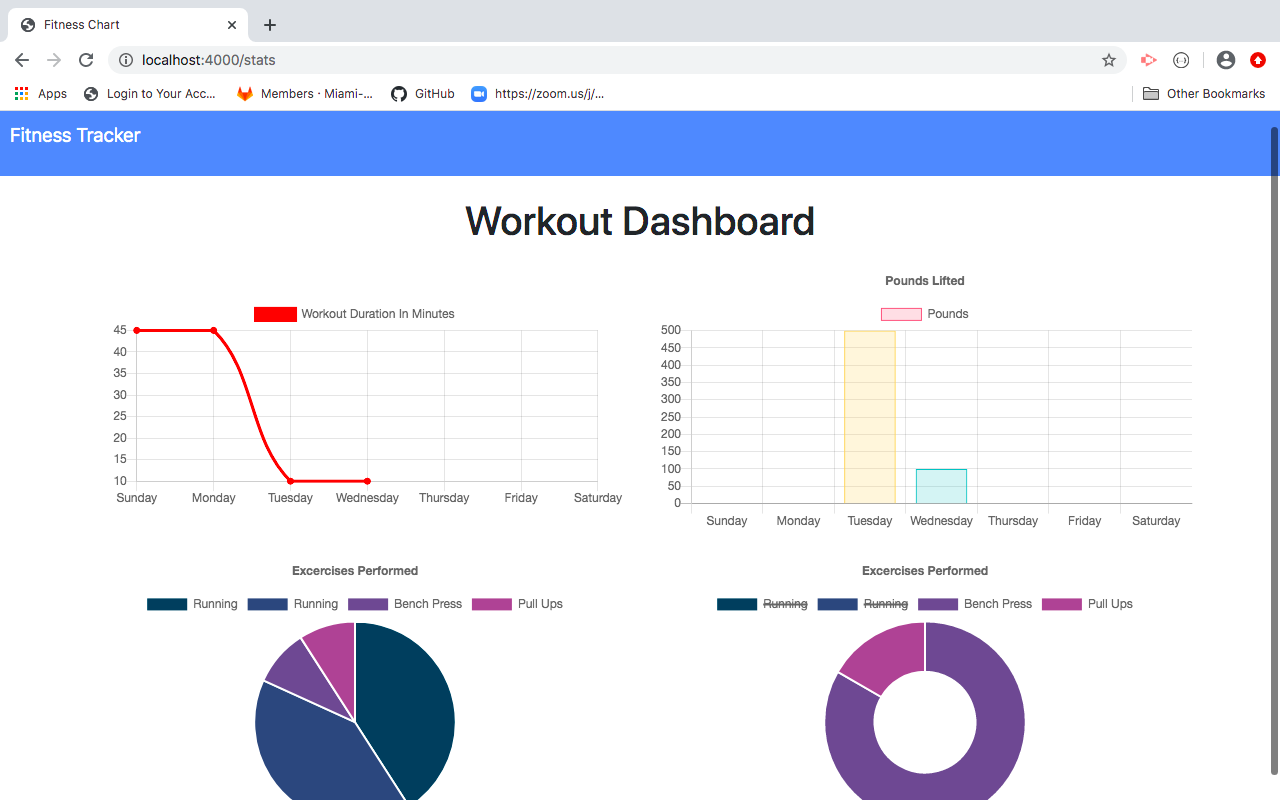
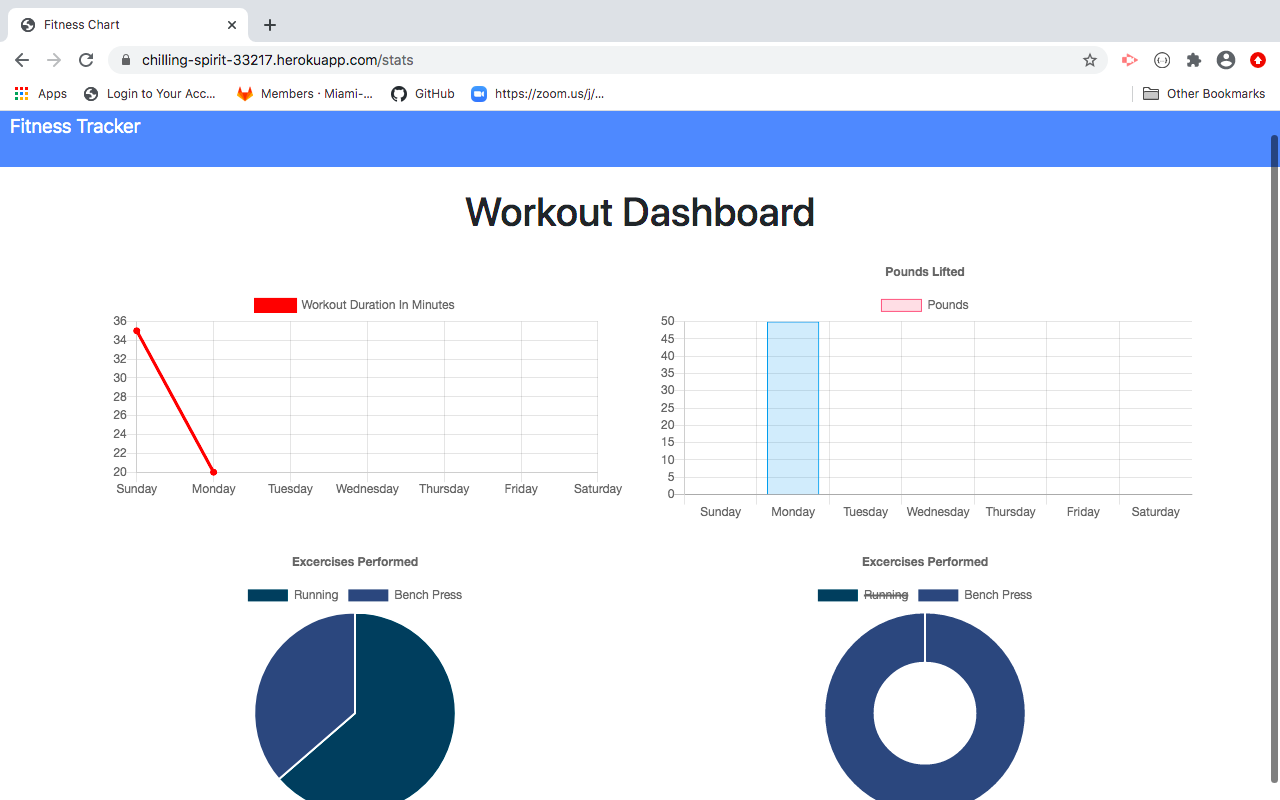
updated README app deployed to heroku

diff --git a/README.md b/README.md
@@ -2,13 +2,13 @@
 
 This application is a simple workout tracker.  The user can view, create, and track their daily workouts.  The user can manually log multiple exercises at a time and the exercises are categorized as cardio or resistance.  For cardio, the user can track their distance in miles and the duration of the exercise.  For resistance, the user can track how much weight they are lifting, the amount of sets, the amount of reps within each set, and the duration of the exercise.  This application uses MongoDB, mongoose, express, and node.
 
-Deployed: 
+Deployed: https://chilling-spirit-33217.herokuapp.com/
 
-### Image of Previously Added Workout
+### Image of Home Page
+<img src="./public/images/homepage.png">
+
+### Image of New Workout
 <img src="./public/images/workoutadded.png">
-
-### Image of Newly Added Workout
-<img src="./public/images/addnewworkout.png">
 
 ### Image of Workout Stats
 <img src="./public/images/stats.png">
